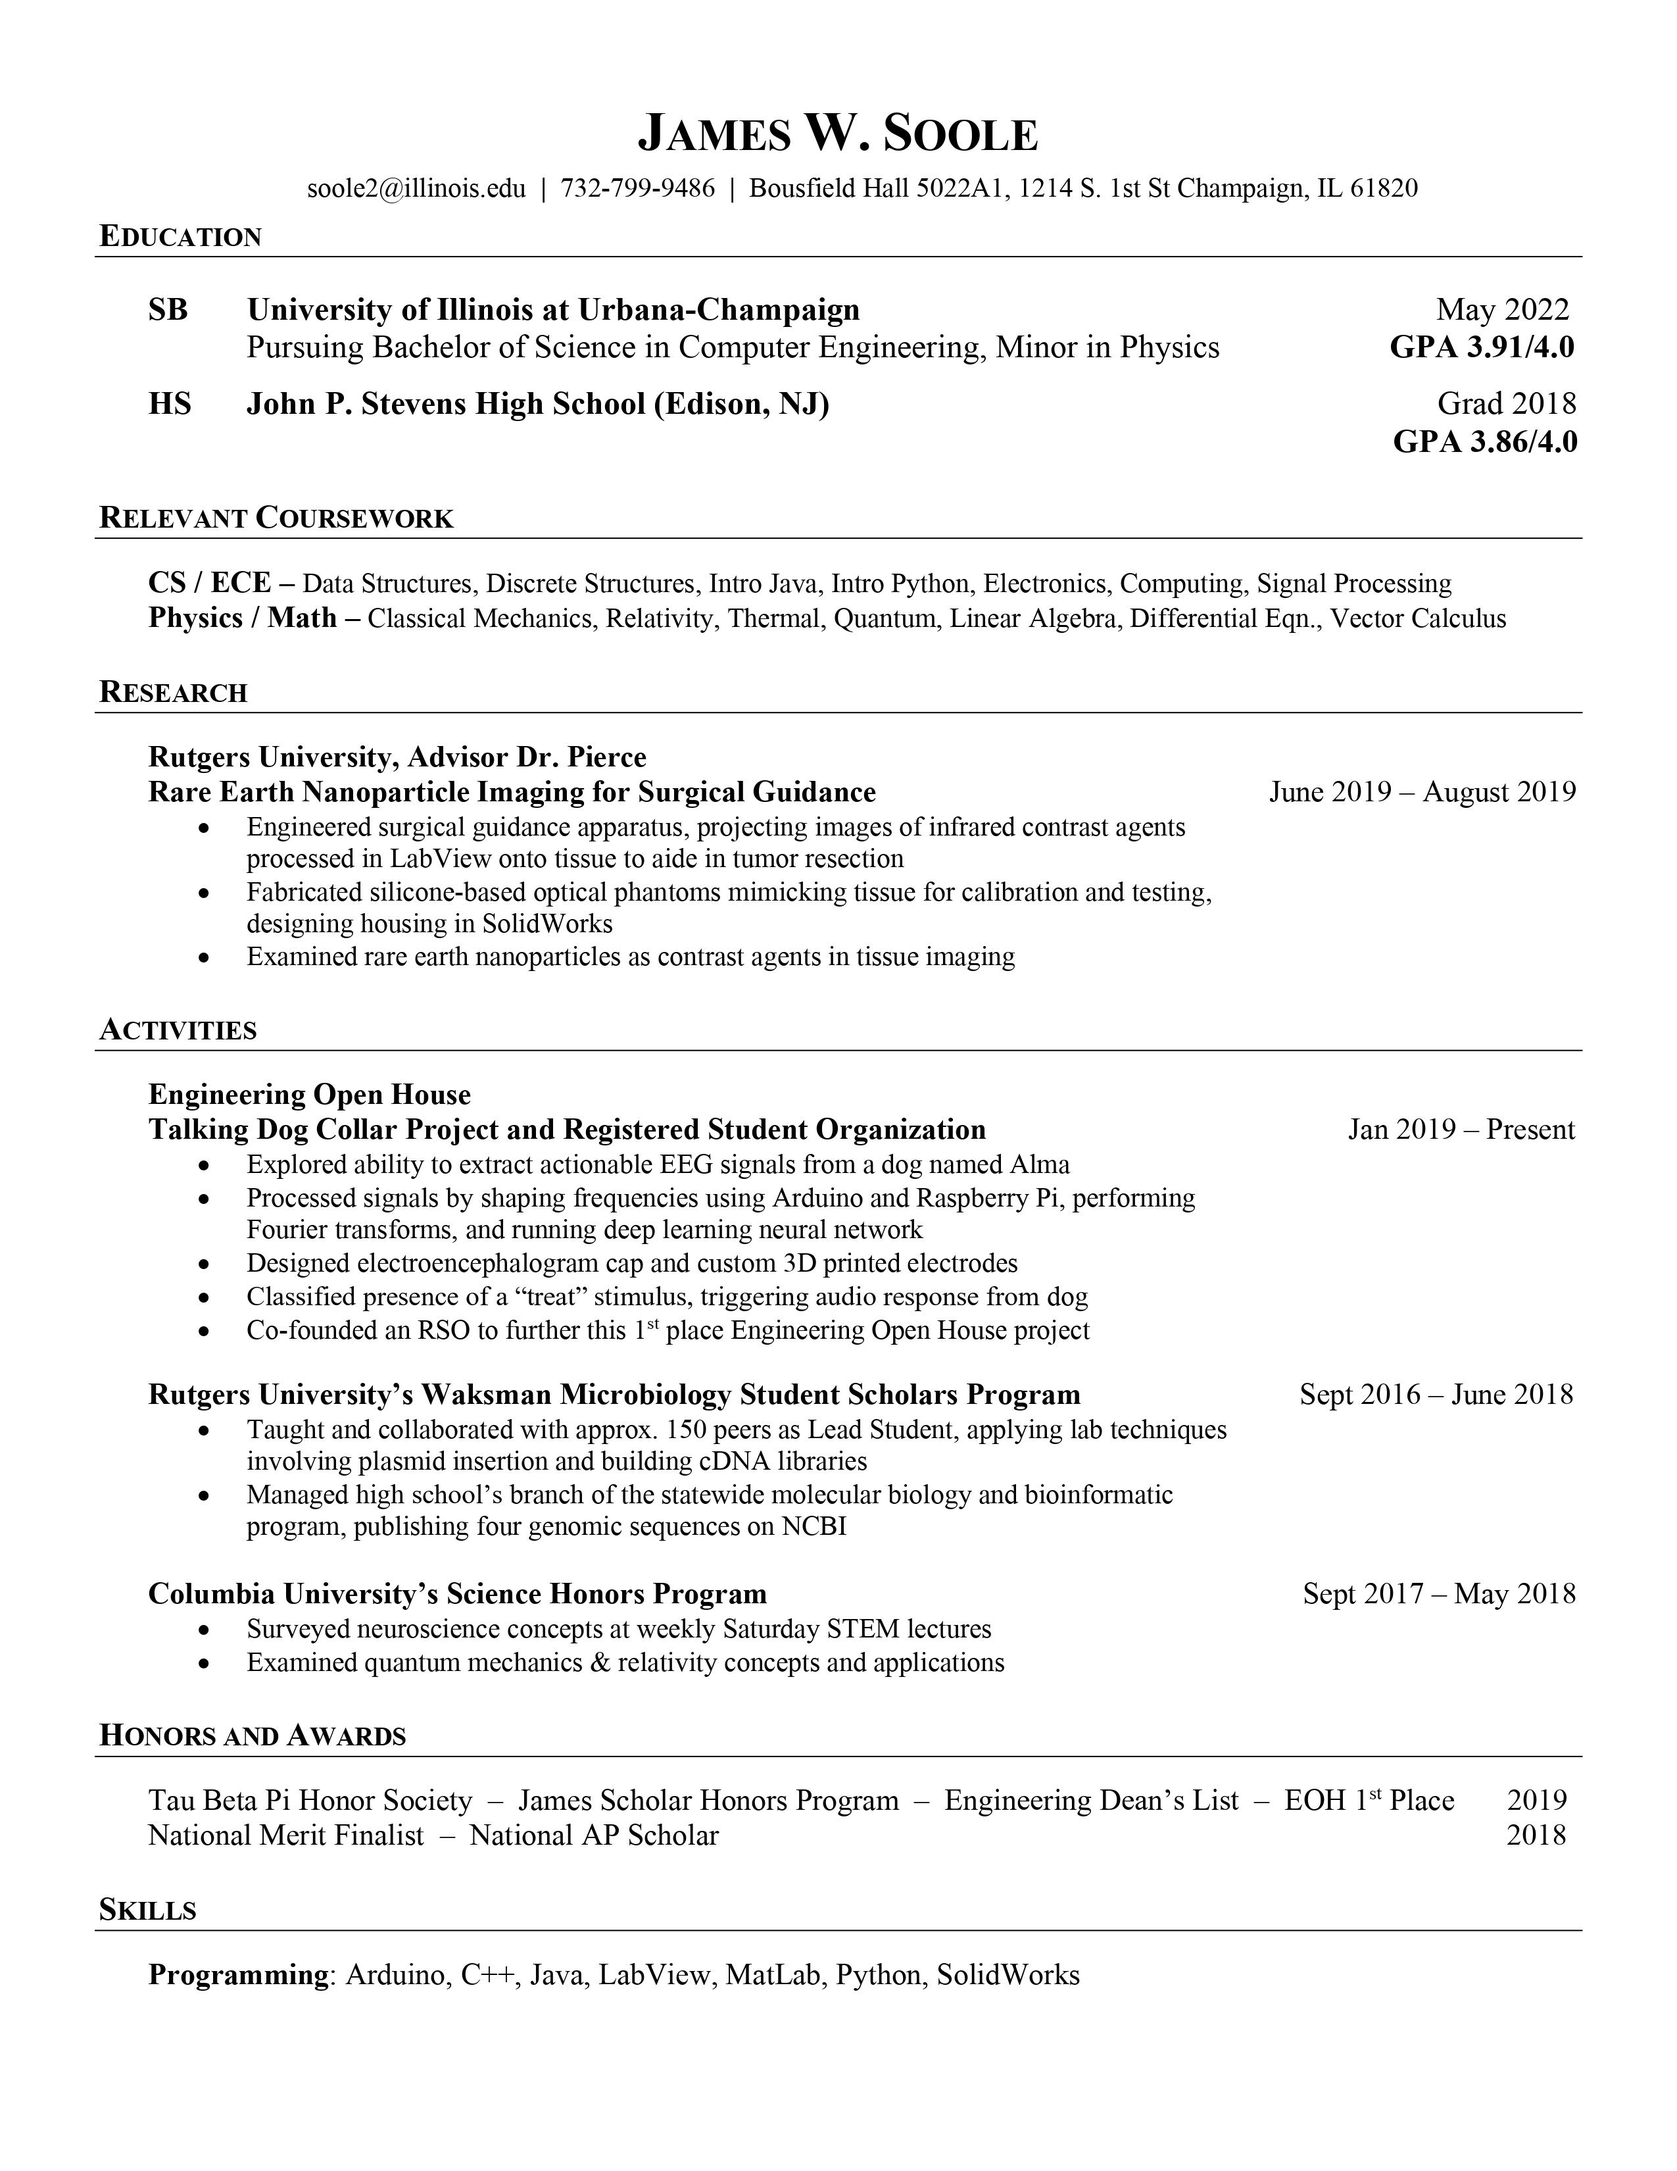
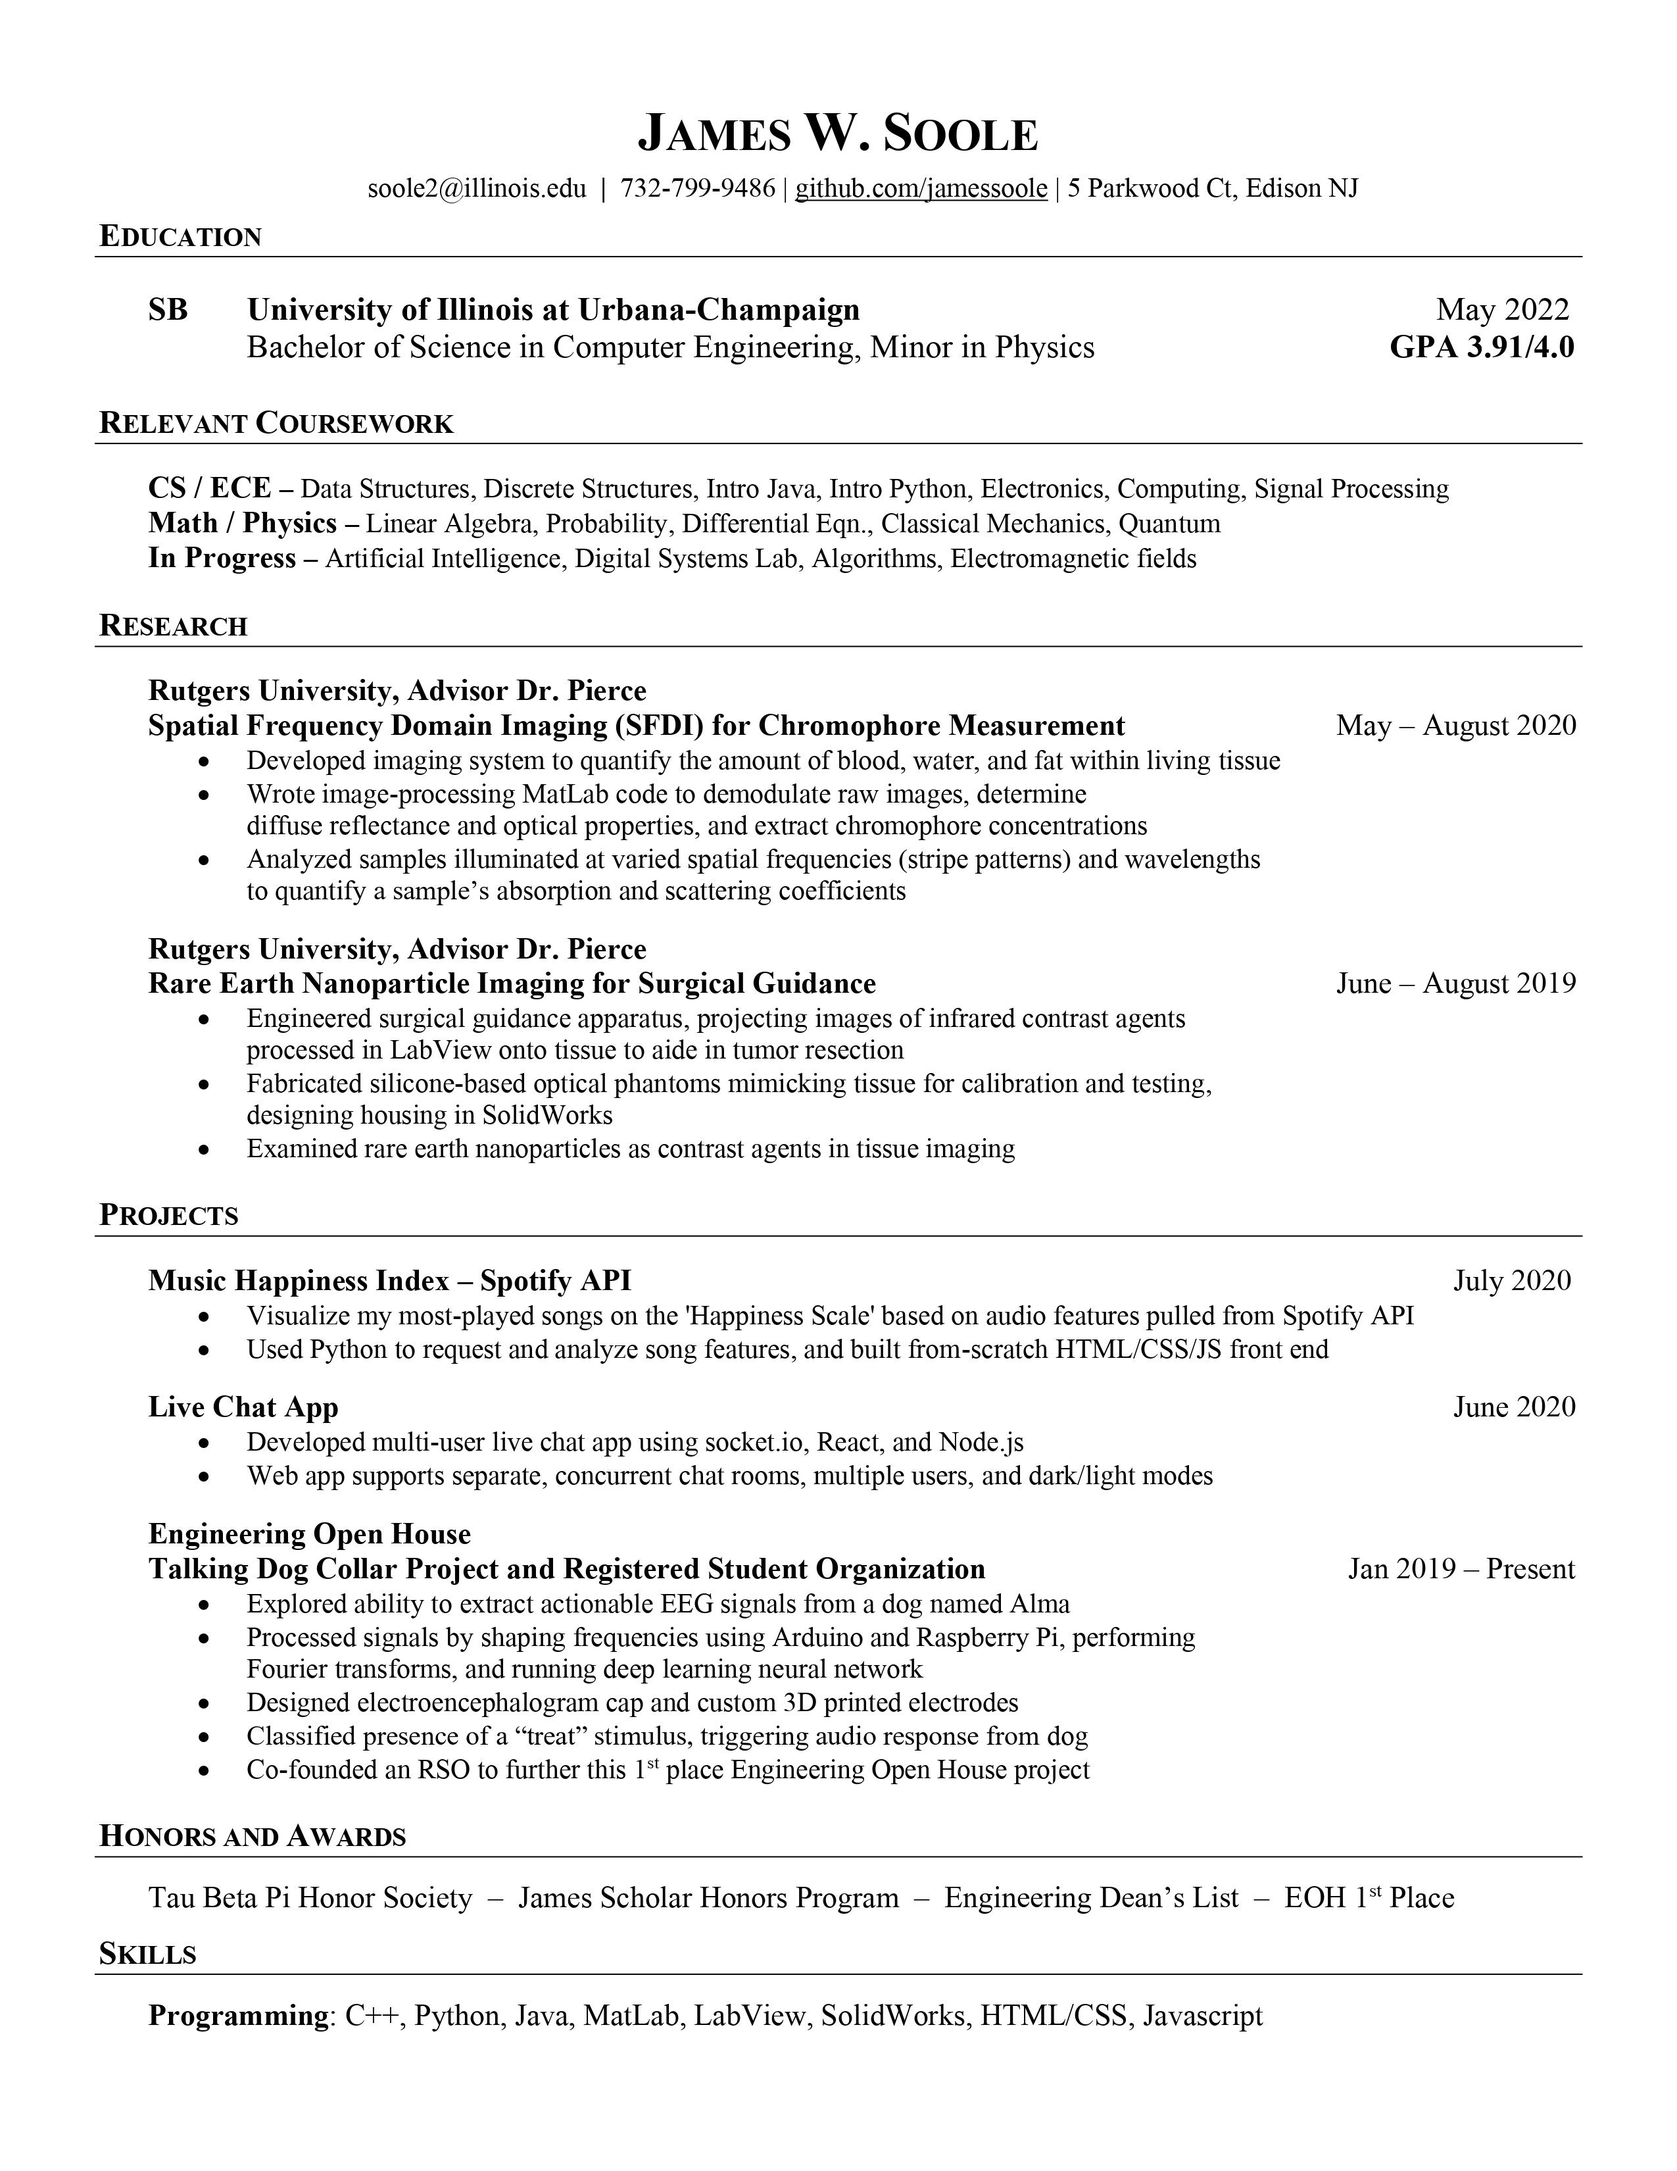
addes summer 2020 research

diff --git a/index.html b/index.html
@@ -82,8 +82,8 @@
                     <li><a id="dugSite" href="https://grainger.illinois.edu/news/30495" target="_blank">Press</a></li>
                     <li><a id="dugCode" href="https://github.com/jamessoole/Dug" target="_blank">Code</a></li>
                 </div>
-                
             </div>
+
         </div>
 
 
@@ -107,6 +107,44 @@
         </div>
 
 
+        <!-- PIERCE 2020 -->
+        <div class="box">
+            <img src="images/pierce3.JPG" id="pierce1" style="mix-blend-mode: difference;" class="preview-image preview-image-wide preview-image-left">
+            <!-- <img src="images/pierce1.jpg" class="preview-image preview-image-wide"> -->
+
+            <div class="project-text project-text-right">
+                <div class="project-title left">Spatial Frequency Domain Imaging Research</div>
+                <div class="project-description left">Summer 2020 research developing an imaging system to quantify the amount of blood, water, and fat within living tissue. MatLab code written to demodulate raw images, determine
+                    diffuse reflectance and optical properties, and extract chromophore concentrations.</div>
+                <div class="btn-link btns-left">
+                    <!-- update external link -->
+                    <!-- <li><a id="pierce1Abstract" href="images/abstractSu2019.pdf" target="_blank">Abstract</a></li> -->
+                </div>
+            </div>
+
+        </div>
+
+
+        <!-- STAR COURSE -->
+        <div class="box">
+            <img src="images/starcourse.JPG" id="music-portfolio" class="preview-image preview-image-wide preview-image-right">
+            <!-- <img src="images/music-portfolio4.JPG" class="preview-image"> -->
+            
+            <div class="project-text project-text-left">
+                <div class="project-title right">StarCourse Website</div>
+                <div class="project-description right">Public website for UIUC's student-run concert promotion organization.<br> Updated and upkeep legacy code.</div>
+                
+                <div class="btn-link btns-right">
+                    <li><a id="photoSite" href="http://www.star-course.com/" target="_blank">Site</a></li>
+                    <li><a id="photoCode"href="https://github.com/jamessoole/starcourse.github.io" target="_blank">Code</a></li>
+                </div>
+                <!-- to make be more in line -->
+                <div class="project-description right hidden" >An assortment of small JS and CSS projects. An assortment of small JS and CSS projects.  </div>
+            </div>
+
+        </div>
+
+
         <!-- PIERCE 2019 -->
         <div class="box">
             <img src="images/pierce1.JPG" id="pierce1" style="mix-blend-mode: soft-light;" class="preview-image preview-image-wide preview-image-left">
@@ -122,6 +160,7 @@
                     <li><a id="pierce1Code" href="/" onclick="return false;" style=" cursor:no-drop;">Code</a></li>
                 </div>
             </div>
+
         </div>
 
 

diff --git a/style.css b/style.css
@@ -217,6 +217,7 @@ body {
     box-sizing: border-box;
     transition: 0.2s ease;
     box-shadow: 10px 10px 10px var(--color9);
+
 }
 .preview-image-left {
     order: 1;
